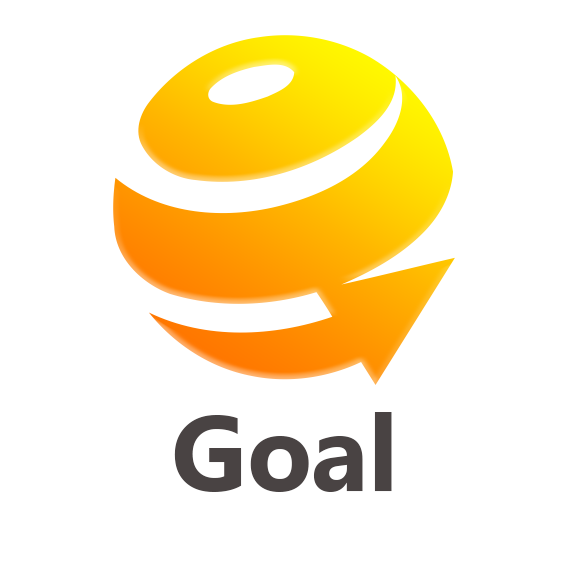
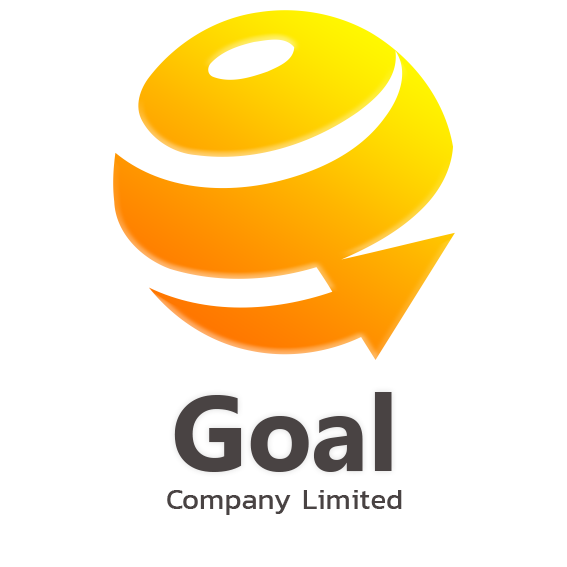
add company limited

Changed region(s): [[0.1799, 0.0, 0.8095, 0.7496], [0.2698, 0.6896, 0.7196, 0.8995]]

diff --git a/index.html b/index.html
@@ -1,7 +1,7 @@
 <!DOCTYPE HTML>
 <html>
 	<head>
-		<title>Goal</title>
+		<title>Goal Company Limited</title>
 		<meta charset="utf-8" />
 		<meta name="viewport" content="width=device-width, initial-scale=1" />
 		<!--[if lte IE 8]><script src="assets/js/ie/html5shiv.js"></script><![endif]-->
@@ -33,7 +33,7 @@
 
 				<!-- Footer -->
 					<footer id="footer">
-						<span class="copyright">&copy; Goal Utility<!--a href="http://goal.ga">Goal</a-->.</span>
+						<span class="copyright">&copy; Goal Company Limited<!--a href="http://goal.ga">Goal</a-->.</span>
 					</footer>
 
 			</div>
